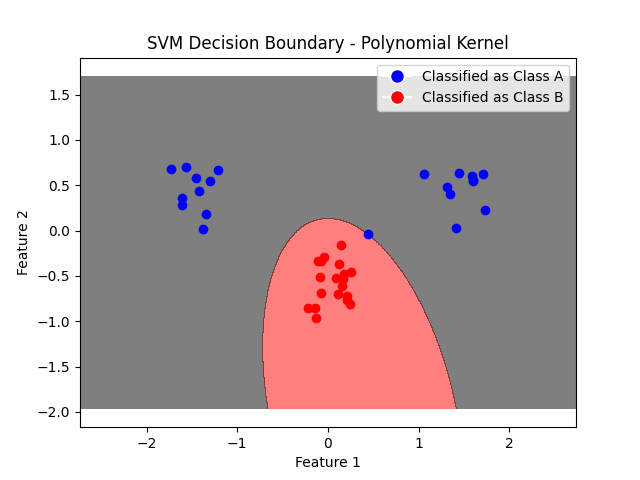
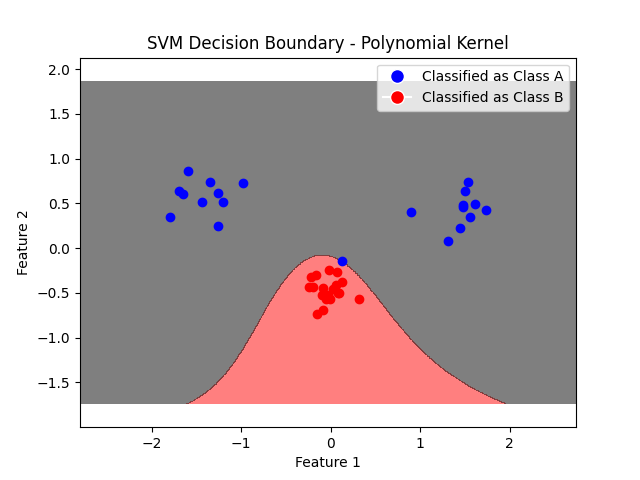
Updated

diff --git a/svm/SVM.py b/svm/SVM.py
@@ -36,7 +36,7 @@ class SupportVectorMachine:
         return np.dot(x1, x2)
 
 
-    def polynomial_kernel(self, x1, x2, degree=2):
+    def polynomial_kernel(self, x1, x2, degree=3):
         """
         ### Compute the polynomial kernel between two data points.
         Allows for curved decision boundaries.
@@ -49,13 +49,13 @@ class SupportVectorMachine:
         return (np.dot(x1, x2) + 1) ** degree
 
 
-    def rbf_kernel(self, x1, x2, sigma=2.0):
+    def rbf_kernel(self, x1, x2, sigma=3.0):
         """
         ### Compute the RBF kernel (Gaussian kernel) between two data points.
         Uses the euclidian distance between two datapoints. Often very good boundaries.
         #### Parameters:
         - x1, x2: Numpy Arrays representing data points.
-        - gamma: Parameter controlling the kernel's width and the smothness of the boundary (default=1.0)
+        - sigma: Parameter controlling the kernel's width and the smothness of the boundary (default=1.0)
         #### Returns:
         - The scalar product-like similarity measure.
         """
@@ -258,15 +258,6 @@ class SupportVectorMachine:
                 loc='upper right')
         plt.axis('equal') # force same scale and axises
         plt.savefig(f'svm/figures/svm-boundary-{self.kernel}-kernel.png') # save the copy
-        plt.show()
-
-    def plot_boundary(self):
-
-        plt.figure(figsize=(10, 6))
-        xgrid = np.linspace(-5, 5)
-        ygrid = np.linspace(-4, 4)
-        grid = np.array([[self.indicator([x, y]) for x in xgrid] for y in ygrid])
-        plt.contour(xgrid, ygrid, grid, (-1.0, 0.0, 1.0), colors=('red', 'black', 'blue'), linewidths=(1, 3, 1))
         plt.show()
 
 
